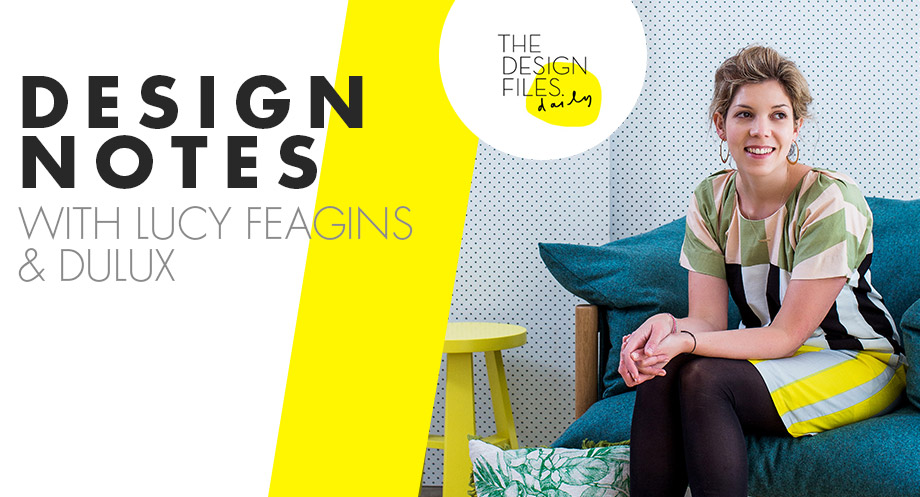
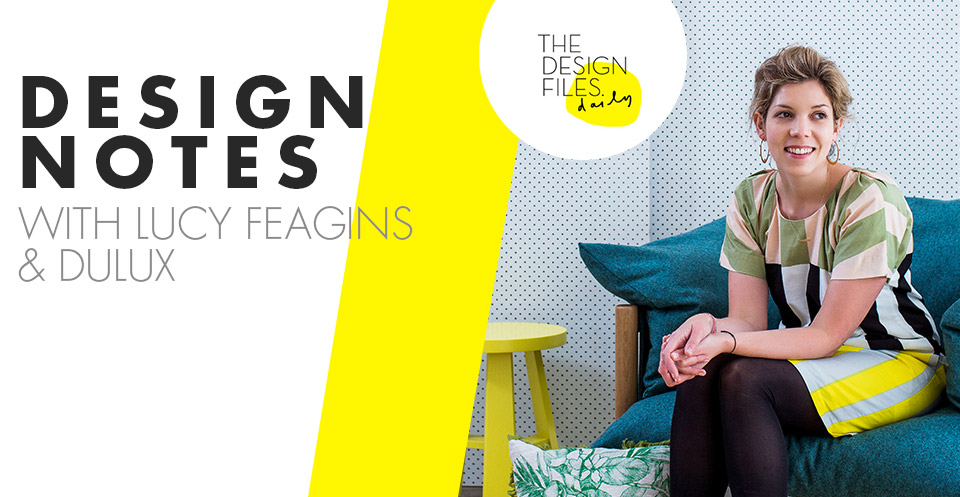
Updates

diff --git a/design-notes/css/styles.css b/design-notes/css/styles.css
@@ -11,55 +11,55 @@ body			{ background: #FBFBFB url(../images/temp/pageBackground.jpg) no-repeat fi
 /* DESIGN NOTES CONTENT */
 
 .design-notes { width:100%; border-top:solid 1px #b0b0a9; background-color:#fff; }
-.design-notes .intro { margin:0 20px; width:920px; height:497px; background-image:url(../images/bg-design-notes-intro.jpg); background-position:0 0; background-repeat:no-repeat; }
+.design-notes .intro { width:960px; height:497px; background-image:url(../images/bg-design-notes-intro.jpg); background-position:0 0; background-repeat:no-repeat; }
 .design-notes .intro h2,
 .design-notes .intro h3,
 .design-notes .intro h4 { text-indent:-9999em; margin:0; padding:0; }
 .design-notes .intro .description { margin:245px 0 0; width:400px; }
 .design-notes .intro .description p { font-size:14px; color:#10000c; margin:0 0 10px 18px; line-height:20px; }
 
-.design-notes .looks-header { width:920px; height:135px; margin:0 20px; background-color:#e9e9e9; background-image:url(../images/hd-looks-header.gif); background-position:131px center; background-repeat:no-repeat; }
+.design-notes .looks-header { width:960px; height:135px; background-color:#e9e9e9; background-image:url(../images/hd-looks-header.gif); background-position:151px center; background-repeat:no-repeat; }
 .design-notes .looks-header .issue-dropdown { float:right; width:200px; height:175px; margin:-40px 0 0; background-image:url(../images/bg-select-issue.png); background-position:0 0; background-repeat:no-repeat; }
 .design-notes .looks-header .issue-dropdown label { width:100%; display:block; font-size:15px; color:#818181; text-align:center; text-indent:-9999em; }
 .design-notes .looks-header .issue-dropdown select { width:140px; margin:105px 0 0 37px; padding:3px 0; font-size:12px; }
 
 .design-notes .look1 { width:960px; height:594px; overflow:hidden; position:relative; background-color:#fff; }
-.design-notes .look1 .inner { width:920px; height:594px; margin:0 20px; background-image:url(../images/bg-look1.jpg); background-position:right 0; background-repeat:no-repeat; float:left; position:relative; }
+.design-notes .look1 .inner { width:960px; height:594px; background-image:url(../images/bg-look1.jpg); background-position:right 0; background-repeat:no-repeat; float:left; position:relative; }
 .design-notes .look1 .inner h2 { width:279px; height:57px; background-image:url(../images/hd-look1.gif); background-position:0 0; background-repeat:no-repeat; text-indent:-9999em; margin:42px 0 0 20px; padding:0; visibility:visible; }
-.design-notes .look1 .inner p { width:285px; margin:10px 0 0 19px; color:#6e6e6e; font-size:12px; line-height:18px; }
+.design-notes .look1 .inner p { width:320px; margin:10px 0 0 19px; color:#6e6e6e; font-size:12px; line-height:18px; }
 .design-notes .look1 .inner .swatch1 { width:171px; height:171px; position:absolute; background-image:url(../images/bg-swatch-maidenhair-fern.png); background-repeat:no-repeat; background-position:0 0; left:100px; bottom:35px; }
 .design-notes .look1 .inner .swatch1 p { color:#fff; font-size:17px; text-align:center; margin:90px 0 0; padding:0 30px; width:auto; }
-.design-notes .look1 .inner .swatch2 { width:99px; height:99px; position:absolute; background-image:url(../images/bg-swatch-savannah.png); background-repeat:no-repeat; background-position:0 0; left:380px; bottom:128px; }
+.design-notes .look1 .inner .swatch2 { width:99px; height:99px; position:absolute; background-image:url(../images/bg-swatch-savannah.png); background-repeat:no-repeat; background-position:0 0; left:420px; bottom:128px; }
 .design-notes .look1 .inner .swatch2 p { color:#84765b; font-size:12px; text-align:center; margin:46px 0 0; padding:0 18px; width:auto; }
-.design-notes .look1 .inner .swatch3 { width:138px; height:138px; position:absolute; background-image:url(../images/bg-swatch-spring-burst-half.png); background-repeat:no-repeat; background-position:0 0; left:345px; bottom:216px; }
+.design-notes .look1 .inner .swatch3 { width:138px; height:138px; position:absolute; background-image:url(../images/bg-swatch-spring-burst-half.png); background-repeat:no-repeat; background-position:0 0; left:385px; bottom:216px; }
 .design-notes .look1 .inner .swatch3 p { color:#447648; font-size:15px; text-align:center; margin:62px 0 0; padding:0 25px; width:auto; }
 .design-notes .look1 .inner .detail { width:226px; height:226px; background-image:url(../images/bg-look1-detail.png); background-repeat:no-repeat; background-position:0 0; position:absolute; bottom:48px; left:-80px; }
 
 .design-notes .look2 { width:960px; height:690px; overflow:hidden; position:relative; background-color:#fff; }
-.design-notes .look2 .inner { width:920px; height:690px; margin:0 20px; background-image:url(../images/bg-look2.jpg); background-position:left 0; background-repeat:no-repeat; float:left; position:relative; }
-.design-notes .look2 .inner h2 { width:287px; height:57px; float:right; background-image:url(../images/hd-look2.gif); background-position:0 0; background-repeat:no-repeat; text-indent:-9999em; margin:105px 80px 0 0; padding:0; visibility:visible; }
-.design-notes .look2 .inner p { width:340px; margin:10px 26px 0 0; color:#6e6e6e; font-size:12px; line-height:18px; float:right; clear:right; }
+.design-notes .look2 .inner { width:960px; height:690px; background-image:url(../images/bg-look2.jpg); background-position:left 0; background-repeat:no-repeat; float:left; position:relative; }
+.design-notes .look2 .inner h2 { width:287px; height:57px; float:right; background-image:url(../images/hd-look2.gif); background-position:0 0; background-repeat:no-repeat; text-indent:-9999em; margin:105px 110px 0 0; padding:0; visibility:visible; }
+.design-notes .look2 .inner p { width:370px; margin:10px 26px 0 0; color:#6e6e6e; font-size:12px; line-height:18px; float:right; clear:right; }
 .design-notes .look2 .inner .swatch1 { width:130px; height:130px; position:absolute; background-image:url(../images/bg-swatch-stella.png); background-repeat:no-repeat; background-position:0 0; left:68px; bottom:15px; }
 .design-notes .look2 .inner .swatch1 p { color:#fff; font-size:14px; text-align:center; margin:69px 0 0; padding:0 30px; width:auto; float:none; }
-.design-notes .look2 .inner .swatch2 { width:158px; height:158px; position:absolute; background-image:url(../images/bg-swatch-hot-lips.png); background-repeat:no-repeat; background-position:0 0; right:307px; bottom:35px; }
+.design-notes .look2 .inner .swatch2 { width:158px; height:158px; position:absolute; background-image:url(../images/bg-swatch-hot-lips.png); background-repeat:no-repeat; background-position:0 0; right:347px; bottom:35px; }
 .design-notes .look2 .inner .swatch2 p { color:#fff; font-size:17px; text-align:center; margin:93px 0 0; padding:0 18px; width:auto; float:none; }
 .design-notes .look2 .inner .swatch3 { width:91px; height:91px; position:absolute; background-image:url(../images/bg-swatch-ito.png); background-repeat:no-repeat; background-position:0 0; left:447px; bottom:168px; }
 .design-notes .look2 .inner .swatch3 p { color:#fff; font-size:14px; text-align:center; margin:48px 0 0; padding:0 25px; width:auto; float:none; }
-.design-notes .look2 .inner .detail { width:190px; height:190px; background-image:url(../images/bg-look2-detail.png); background-repeat:no-repeat; background-position:0 0; position:absolute; bottom:75px; right:171px; }
+.design-notes .look2 .inner .detail { width:190px; height:190px; background-image:url(../images/bg-look2-detail.png); background-repeat:no-repeat; background-position:0 0; position:absolute; bottom:75px; right:211px; }
 
 .design-notes .look3 { width:960px; height:694px; overflow:hidden; position:relative; background-color:#fff; }
-.design-notes .look3 .inner { width:920px; height:694px; margin:0 20px; background-image:url(../images/bg-look3.jpg); background-position:right 0; background-repeat:no-repeat; float:left; position:relative; }
+.design-notes .look3 .inner { width:960px; height:694px; background-image:url(../images/bg-look3.jpg); background-position:right 0; background-repeat:no-repeat; float:left; position:relative; }
 .design-notes .look3 .inner h2 { width:286px; height:57px; background-image:url(../images/hd-look3.gif); background-position:0 0; background-repeat:no-repeat; text-indent:-9999em; margin:66px 0 0 20px; padding:0; visibility:visible; }
 .design-notes .look3 .inner p { width:335px; margin:10px 0 0 19px; color:#6e6e6e; font-size:12px; line-height:18px; }
-.design-notes .look3 .inner .swatch1 { width:98px; height:98px; position:absolute; background-image:url(../images/bg-swatch-oolong.png); background-repeat:no-repeat; background-position:0 0; left:357px; bottom:181px; }
+.design-notes .look3 .inner .swatch1 { width:98px; height:98px; position:absolute; background-image:url(../images/bg-swatch-oolong.png); background-repeat:no-repeat; background-position:0 0; left:397px; bottom:181px; }
 .design-notes .look3 .inner .swatch1 p { color:#a1a3a5; font-size:12px; text-align:center; margin:47px 0 0; padding:0 25px; width:auto; }
-.design-notes .look3 .inner .swatch2 { width:122px; height:122px; position:absolute; background-image:url(../images/bg-swatch-mamala-bay.png); background-repeat:no-repeat; background-position:0 0; left:291px; bottom:30px; }
+.design-notes .look3 .inner .swatch2 { width:122px; height:122px; position:absolute; background-image:url(../images/bg-swatch-mamala-bay.png); background-repeat:no-repeat; background-position:0 0; left:331px; bottom:30px; }
 .design-notes .look3 .inner .swatch2 p { color:#94b1c3; font-size:12px; text-align:center; margin:59px 0 0; padding:0 18px; width:auto; }
 .design-notes .look3 .inner .swatch3 { width:197px; height:197px; position:absolute; background-image:url(../images/bg-swatch-gold-rush.png); background-repeat:no-repeat; background-position:0 0; left:105px; bottom:157px; }
 .design-notes .look3 .inner .swatch3 p { color:#fff; font-size:15px; text-align:center; margin:80px 0 0; padding:0 75px; width:auto; }
 .design-notes .look3 .inner .detail { width:223px; height:223px; background-image:url(../images/bg-look3-detail.png); background-repeat:no-repeat; background-position:0 0; position:absolute; bottom:91px; left:-51px; }
 
-.design-notes .sample-pot { width:920px; height:198px; margin:0 20px; background-color:#e9e9e9; background-image:url(../images/bg-sample-pot.jpg); background-position:20px center; background-repeat:no-repeat; }
+.design-notes .sample-pot { width:960px; height:198px; background-color:#e9e9e9; background-image:url(../images/bg-sample-pot.jpg); background-position:20px center; background-repeat:no-repeat; }
 .design-notes .sample-pot .description { padding:33px 0 0 313px; width:300px; float:left; }
 .design-notes .sample-pot .description p { font-size:17px; line-height:21px; }
 .design-notes .sample-pot .description p.terms { font-size:11px; margin:11px 0 0; line-height:15px; }
